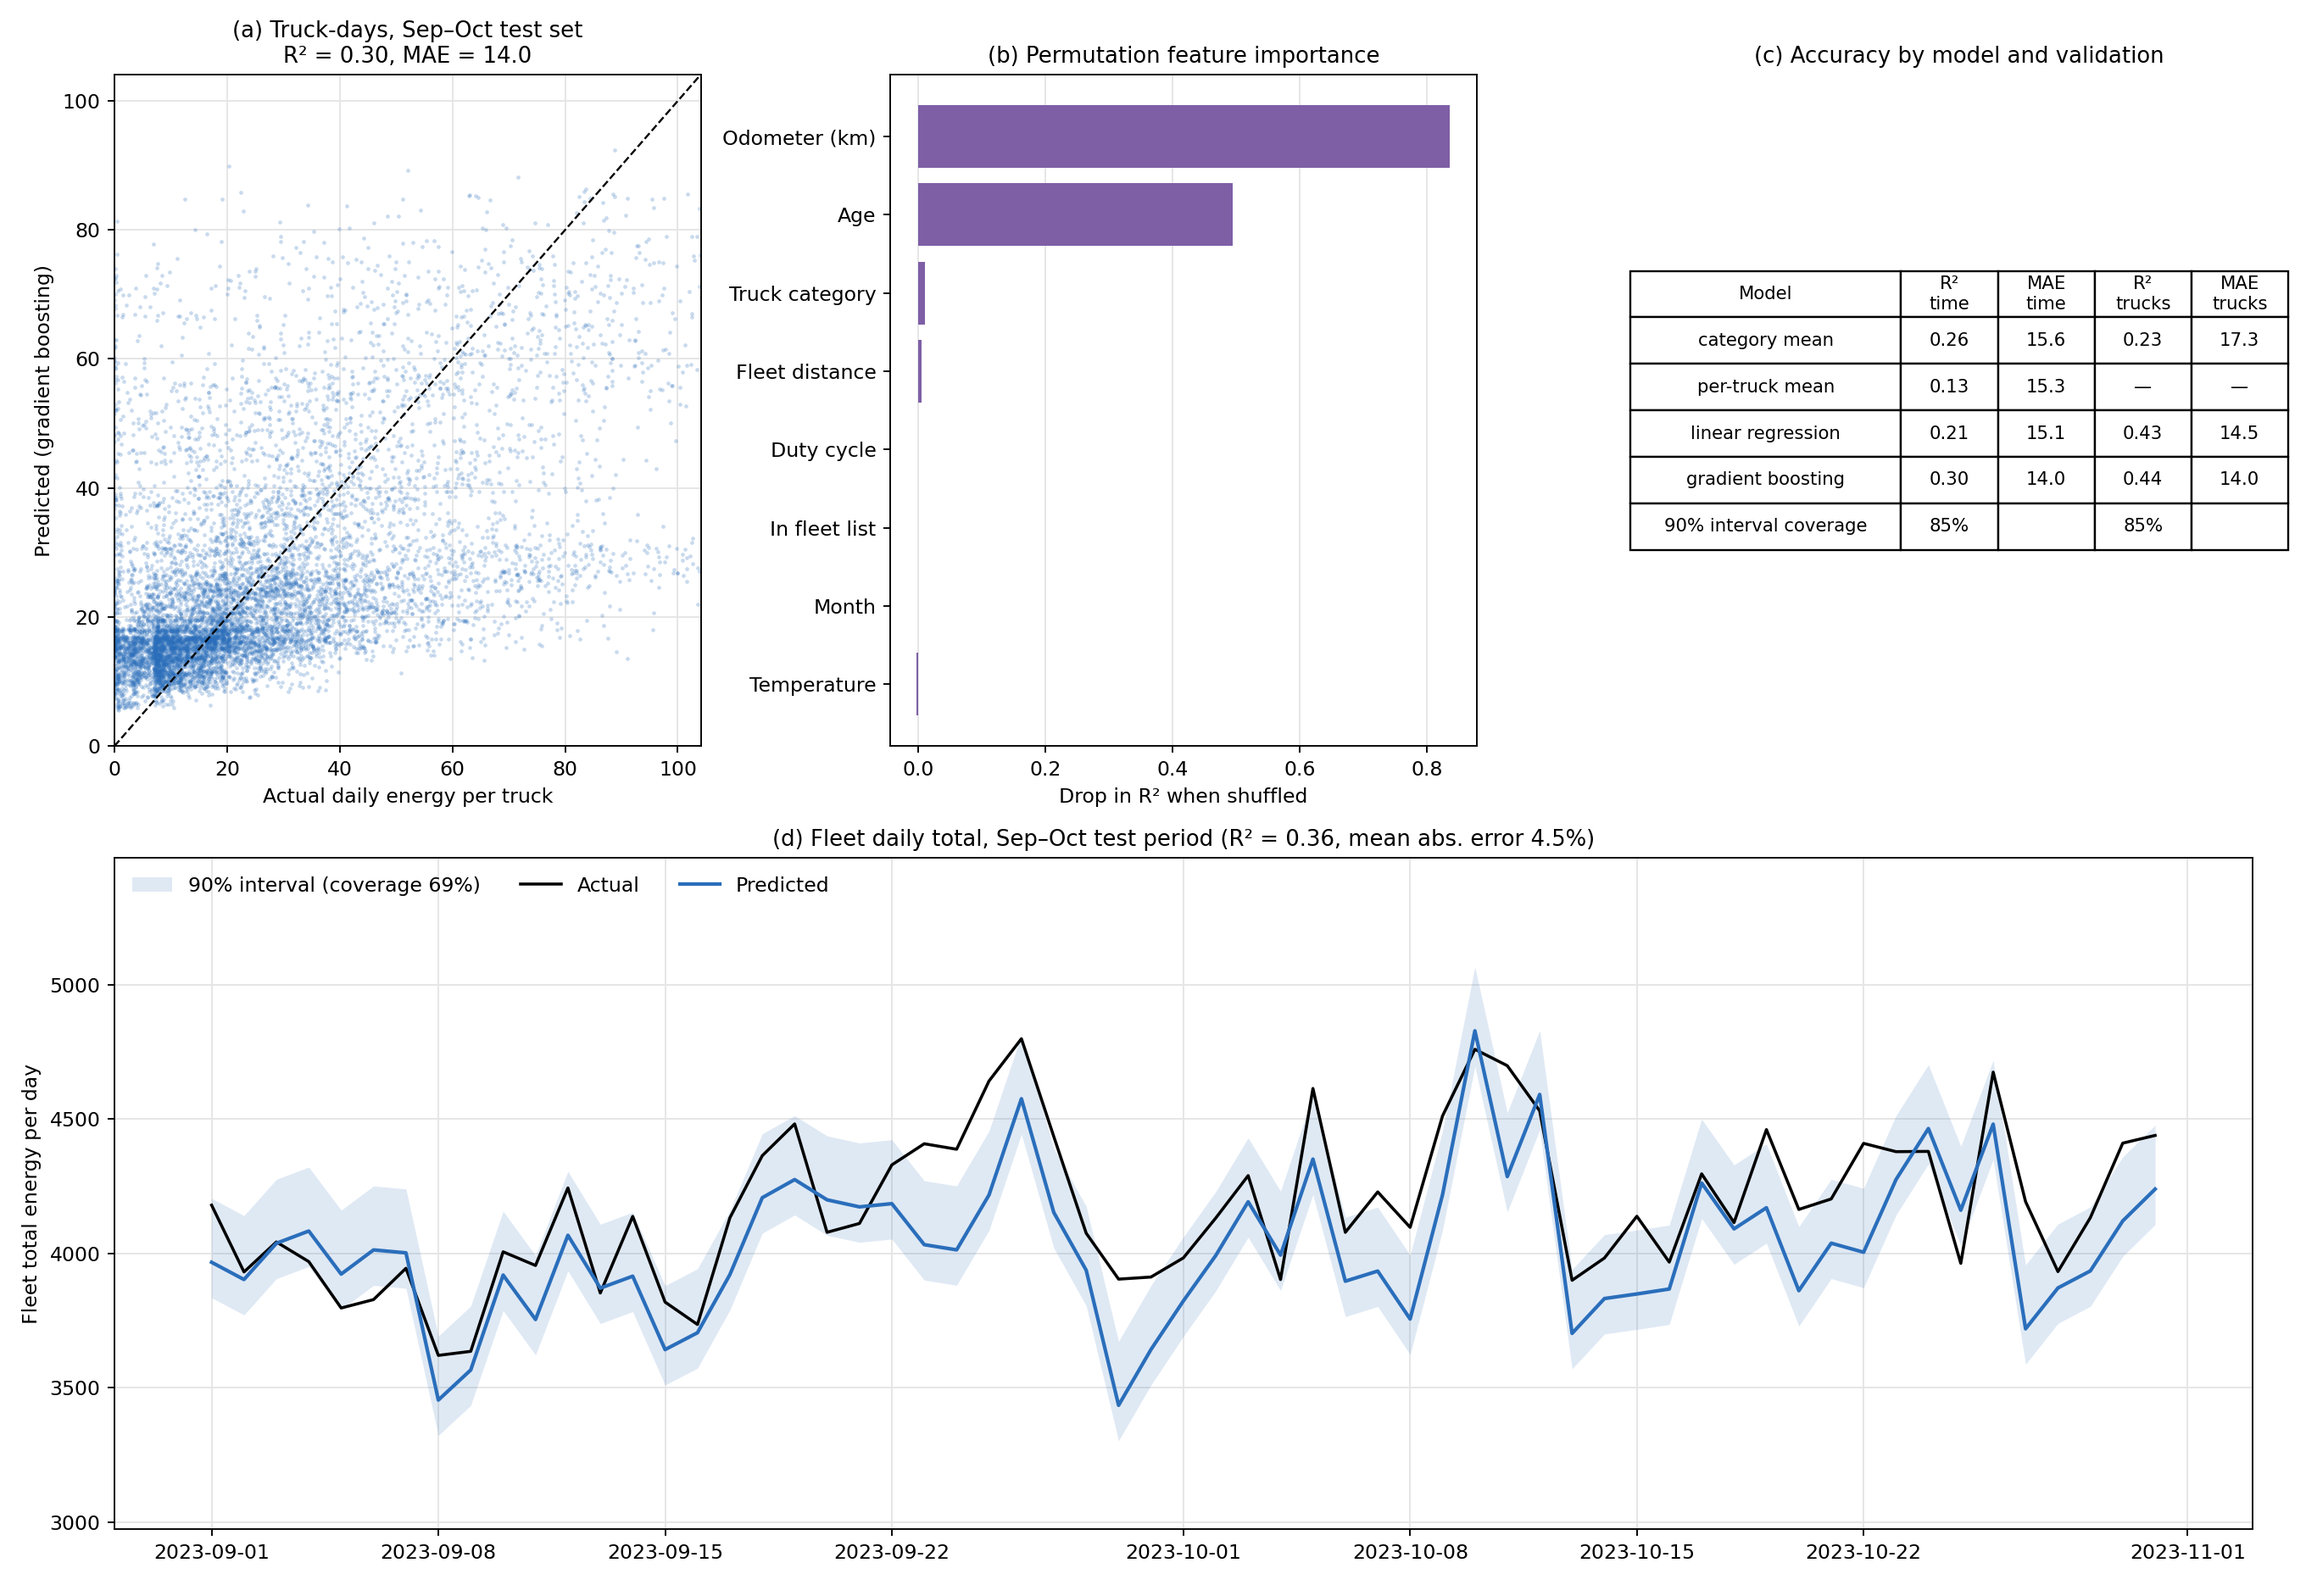
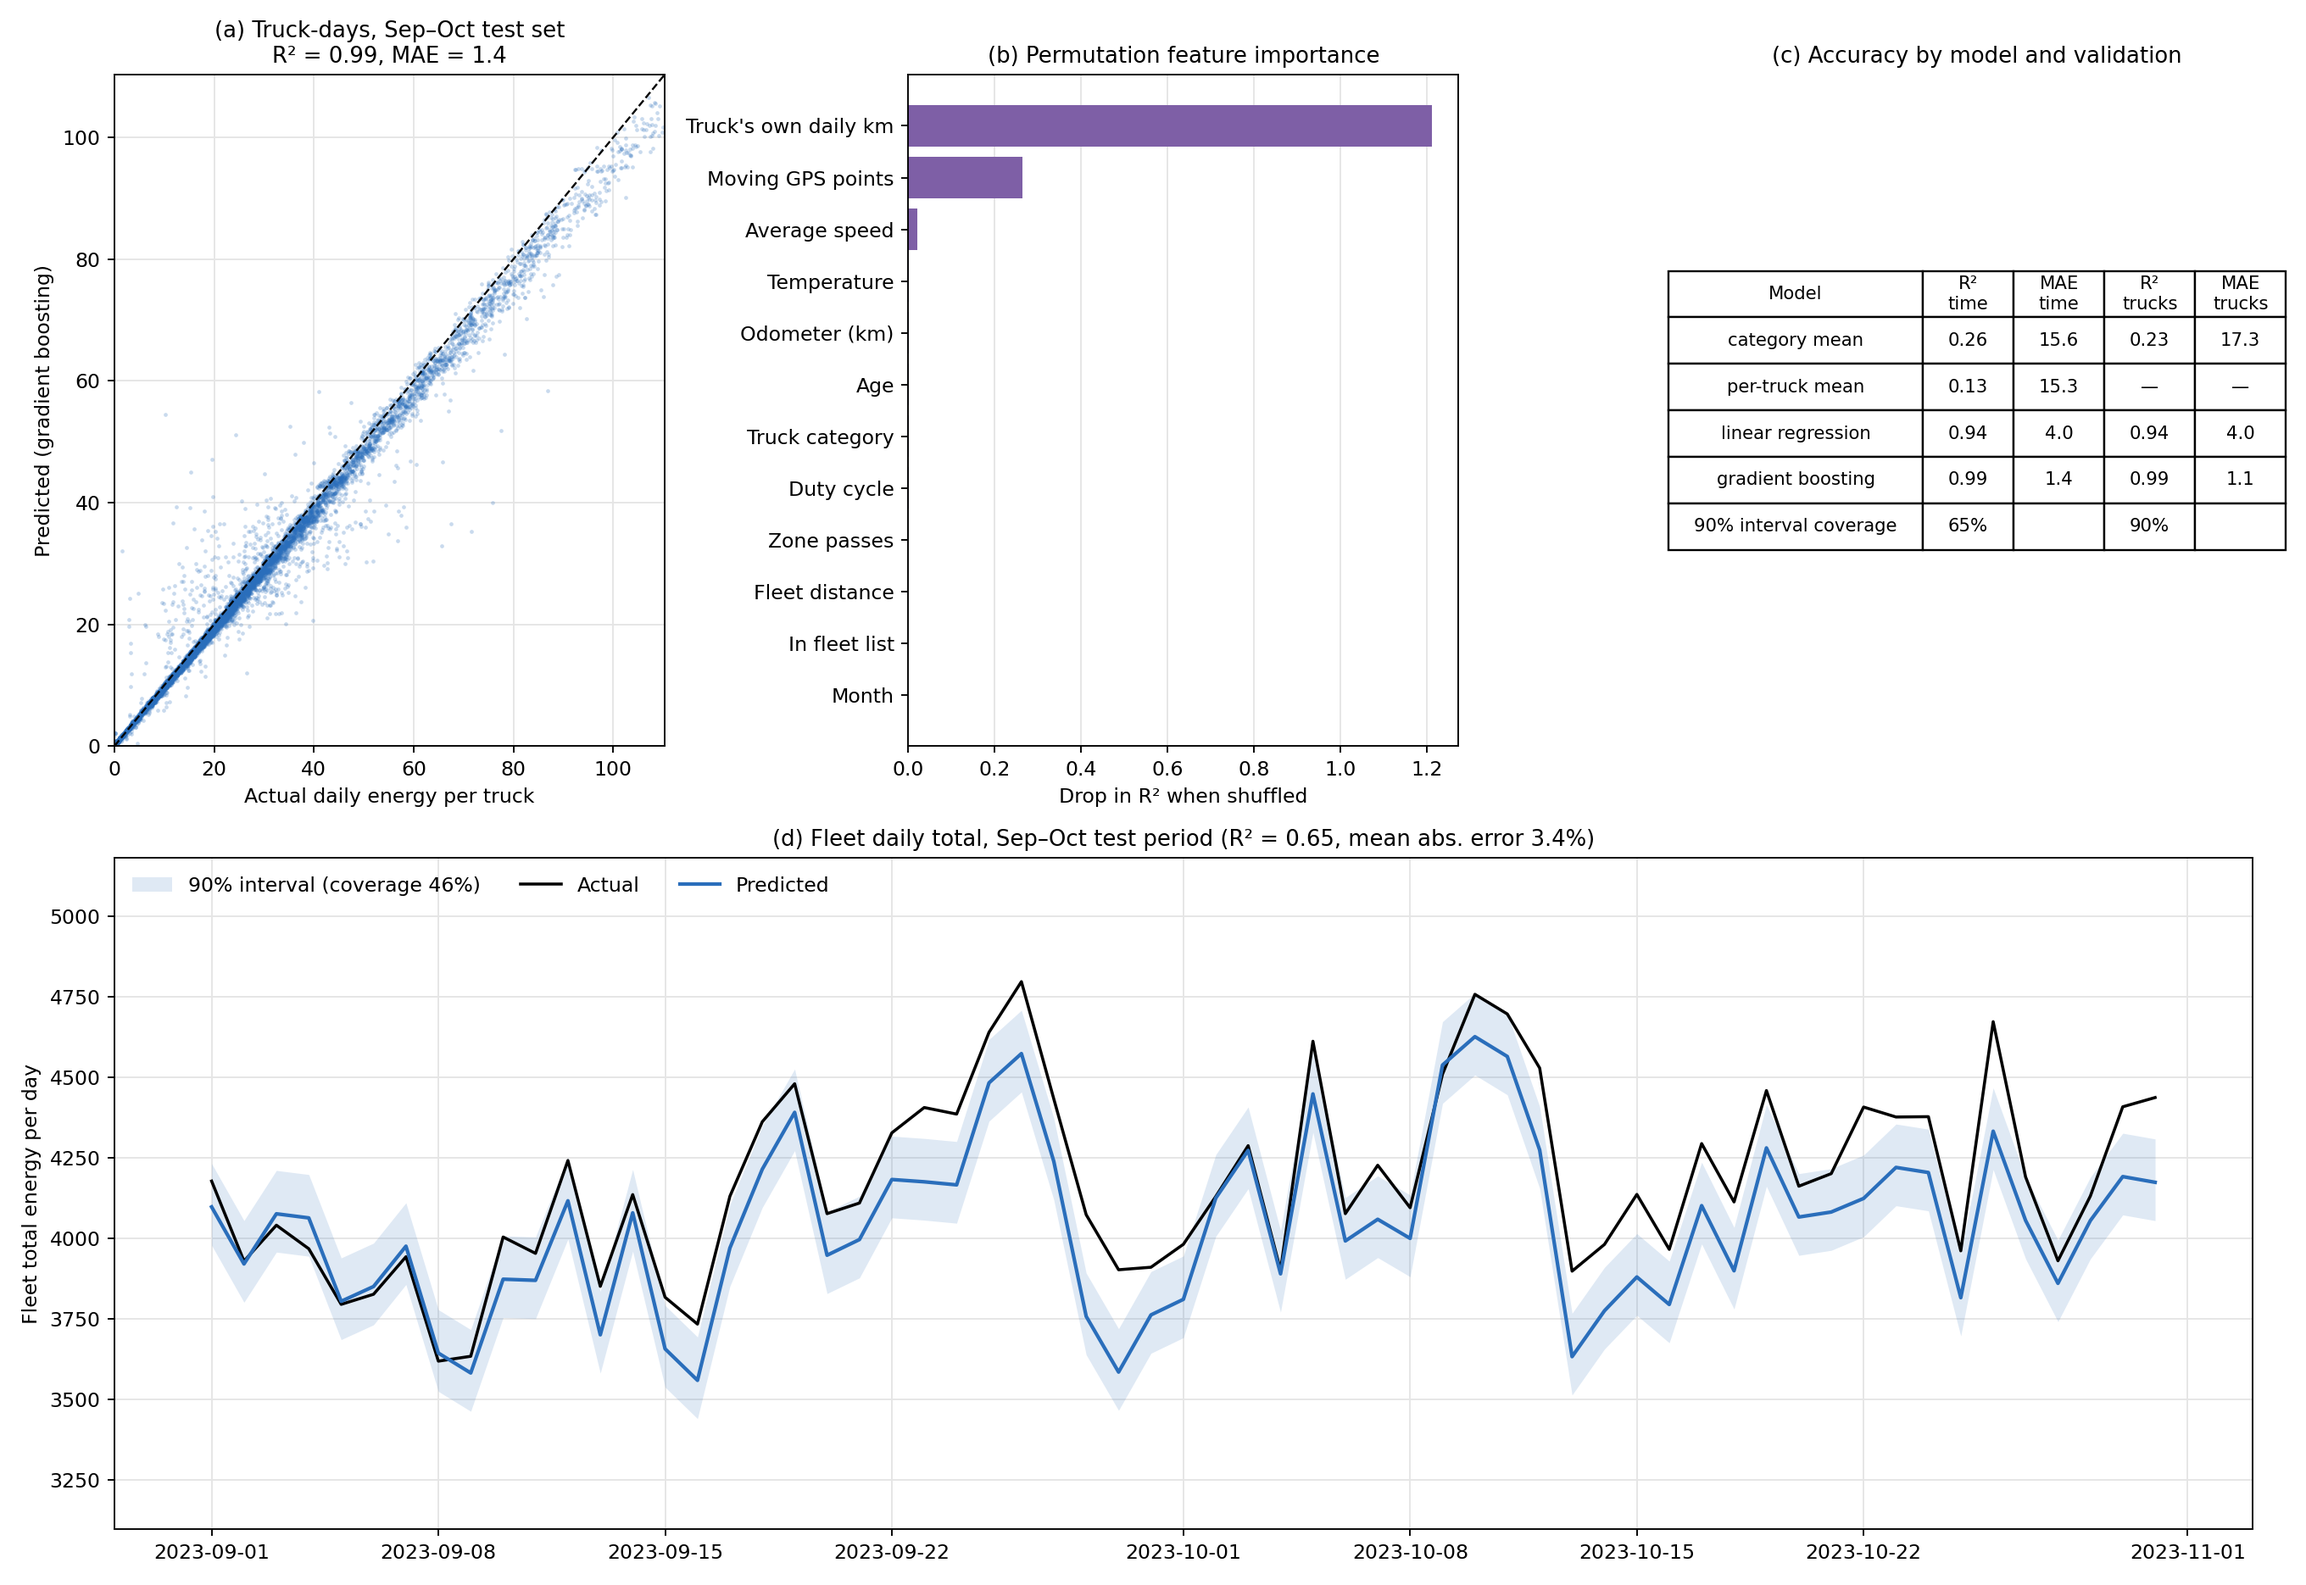
Add per-truck GPS features and single-truck prediction plot
Join each truck's own daily GPS distance, moving points, average speed
and zone passes into the energy model (R2 ~0.99 vs ~0.3 without them).
Add predict_one_truck.py for actual vs predicted daily energy of one
truck with 90% intervals. GPS features are same-day, so this estimates
energy given the day's driving rather than forecasting it.

diff --git a/energy_uncertainty/predict_one_truck.py b/energy_uncertainty/predict_one_truck.py
@@ -1,0 +1,85 @@
+"""Actual vs predicted daily energy for a single truck.
+
+Uses the same features and gradient-boosting setup as predict_energy.py,
+trained on all trucks for Jan-Aug, and shows one truck's daily energy across
+the year: in-sample fit for Jan-Aug, out-of-sample forecast for Sep-Oct, with
+the 5%-95% quantile-boosting interval.
+
+Usage: python predict_one_truck.py [TruckId]   (default 155)
+"""
+import sys
+from pathlib import Path
+
+import matplotlib.pyplot as plt
+import numpy as np
+from sklearn.ensemble import GradientBoostingRegressor
+from sklearn.metrics import mean_absolute_error, r2_score
+
+from predict_energy import GB_PARAMS, build_dataset, design
+
+HERE = Path(__file__).resolve().parent
+SPLIT = "2023-09-01"
+
+
+def main(truck_id: int = 155):
+    d = build_dataset()
+    if truck_id not in set(d["TruckId"]):
+        sys.exit(f"Truck {truck_id} not in the data")
+    train = d[d["date"] < SPLIT]
+    Xtr = design(train)
+    ytr = train["energy"]
+    models = {
+        "pred": GradientBoostingRegressor(**GB_PARAMS),
+        "lo": GradientBoostingRegressor(loss="quantile", alpha=0.05, **GB_PARAMS),
+        "hi": GradientBoostingRegressor(loss="quantile", alpha=0.95, **GB_PARAMS),
+    }
+    for m in models.values():
+        m.fit(Xtr, ytr)
+
+    t = d[d["TruckId"] == truck_id].sort_values("date").copy()
+    Xt = design(t, Xtr.columns)
+    for k, m in models.items():
+        t[k] = m.predict(Xt)
+    info = t.iloc[0]
+    test = t[t["date"] >= SPLIT]
+    fit = t[t["date"] < SPLIT]
+
+    def stats(s):
+        if len(s) < 2:
+            return "n/a"
+        cov = np.mean((s["energy"] >= s["lo"]) & (s["energy"] <= s["hi"]))
+        return (f"R² {r2_score(s['energy'], s['pred']):.2f}, MAE {mean_absolute_error(s['energy'], s['pred']):.1f}\n"
+                f"90% coverage {cov:.0%}, n={len(s)} days")
+
+    fig, ax = plt.subplots(figsize=(15, 6), dpi=180)
+    ax.axvspan(t["date"].min(), np.datetime64(SPLIT), color="#f2f2f2", lw=0)
+    ax.fill_between(t["date"], t["lo"], t["hi"], color="#2a6ebb", alpha=0.18, lw=0, label="90% prediction interval")
+    ax.plot(t["date"], t["energy"], color="black", lw=1.2, marker="o", ms=2.5, label="Actual")
+    ax.plot(t["date"], t["pred"], color="#2a6ebb", lw=1.8, label="Predicted")
+    ax.axvline(np.datetime64(SPLIT), color="#555555", lw=1, ls="--")
+    ymax = max(t["energy"].max(), t["hi"].max()) * 1.15
+    ax.set_ylim(0, ymax)
+    ax.text(np.datetime64("2023-01-04"), ymax * 0.97, f"Training period (in-sample)\n{stats(fit)}", va="top", fontsize=9)
+    ax.text(np.datetime64("2023-09-03"), ymax * 0.97, f"Test period\n{stats(test)}", va="top", fontsize=9)
+
+    duty = info["duty_cycle"]
+    attrs = (f"{info['truck_category']}, duty {duty}, age {info['age']:.1f} yr, {info['km']:,.0f} km"
+             if info["in_fleet"] else f"{info['truck_category']}, not in fleet list")
+    ax.set_title(f"Truck {truck_id} — daily energy, actual vs predicted ({attrs})", fontsize=13)
+    ax.set_ylabel("Daily energy (dataset units)")
+    ax.legend(frameon=False, loc="upper right", bbox_to_anchor=(1, 0.86), ncol=3)
+    ax.grid(color="#e5e5e5")
+    ax.set_axisbelow(True)
+    ax.set_xlim(t["date"].min(), t["date"].max())
+    fig.tight_layout()
+    out = HERE / f"truck_{truck_id}_energy_prediction.png"
+    fig.savefig(out)
+    plt.close(fig)
+    print(attrs)
+    print("train:", stats(fit))
+    print("test: ", stats(test))
+    print("saved", out.name)
+
+
+if __name__ == "__main__":
+    main(int(sys.argv[1]) if len(sys.argv) > 1 else 155)

diff --git a/energy_uncertainty/predict_energy.py b/energy_uncertainty/predict_energy.py
@@ -4,8 +4,14 @@ Target: energy of one truck on one active calendar day (sum of its half-hour slo
 
 Features
   truck-level : truck_category, duty cycle, age (yr), odometer (km)
+  truck-day   : the truck's own GPS distance (km), moving GPS points, average
+                speed and zone passes that day (vehicle_daily_distance_speed.csv,
+                vehicle_day_zone_passes.csv)
   day-level   : fleet total distance (Total_Distance.csv), daily mean temperature
                 (temperature.csv), month
+
+The truck-day GPS features describe the same day being predicted, so this is
+"energy given the day's driving", not a forecast made before the day starts.
 
 Trucks missing from West_Ang_Fleet.csv (all Ghosts, a few Mobile_Eq) get duty
 cycle "UNKNOWN", median age/km and an ``in_fleet`` = 0 flag.
@@ -36,14 +42,19 @@ from energy_data import load_energy
 
 HERE = Path(__file__).resolve().parent
 OTHER = HERE.parent / "Other_data"
+GPS_DAILY = HERE.parent / "vehicle_daily_distance_speed.csv"
+ZONE_PASSES = HERE.parent / "vehicle_day_zone_passes.csv"
 SEED = 0
 GB_PARAMS = dict(n_estimators=300, max_depth=4, learning_rate=0.05, subsample=0.8, random_state=SEED)
 
-NUMERIC = ["age", "km_k", "in_fleet", "distance_k", "temp", "month"]
+NUMERIC = ["age", "km_k", "in_fleet", "truck_km", "moving_points", "avg_speed", "zone_passes",
+           "distance_k", "temp", "month"]
 CATEGORICAL = ["truck_category", "duty_cycle"]
 FEATURE_LABELS = {
     "truck_category": "Truck category", "duty_cycle": "Duty cycle", "age": "Age",
-    "km_k": "Odometer (km)", "in_fleet": "In fleet list", "distance_k": "Fleet distance",
+    "km_k": "Odometer (km)", "in_fleet": "In fleet list", "truck_km": "Truck's own daily km",
+    "moving_points": "Moving GPS points", "avg_speed": "Average speed", "zone_passes": "Zone passes",
+    "distance_k": "Fleet distance",
     "temp": "Temperature", "month": "Month",
 }
 
@@ -71,7 +82,15 @@ def build_dataset() -> pd.DataFrame:
     t = pd.read_csv(OTHER / "temperature.csv", comment="#", parse_dates=["local_time"])
     temp = t.groupby(t["local_time"].dt.strftime("%m-%d"))["t2m"].mean().rename("temp")
     d = d.join(dist, on="md").join(temp, on="md")
-    return d.dropna(subset=["distance_k", "temp"]).reset_index(drop=True)
+
+    gps = pd.read_csv(GPS_DAILY, parse_dates=["date"]).rename(columns={
+        "VehicleId": "TruckId", "total_distance_km": "truck_km",
+        "moving_point_count": "moving_points", "average_speed": "avg_speed"})
+    zones = pd.read_csv(ZONE_PASSES, parse_dates=["date"]).rename(columns={
+        "VehicleId": "TruckId", "passes_any_zone": "zone_passes"})
+    d = d.merge(gps[["TruckId", "date", "truck_km", "moving_points", "avg_speed"]], on=["TruckId", "date"], how="left")
+    d = d.merge(zones[["TruckId", "date", "zone_passes"]], on=["TruckId", "date"], how="left")
+    return d.dropna(subset=["distance_k", "temp", "truck_km"]).reset_index(drop=True)
 
 
 def design(d: pd.DataFrame, columns=None) -> pd.DataFrame:
